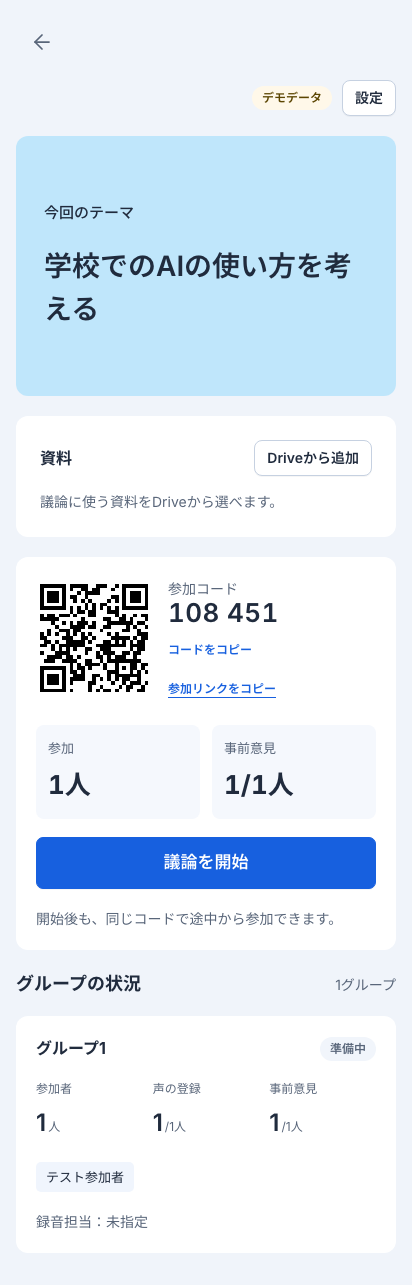
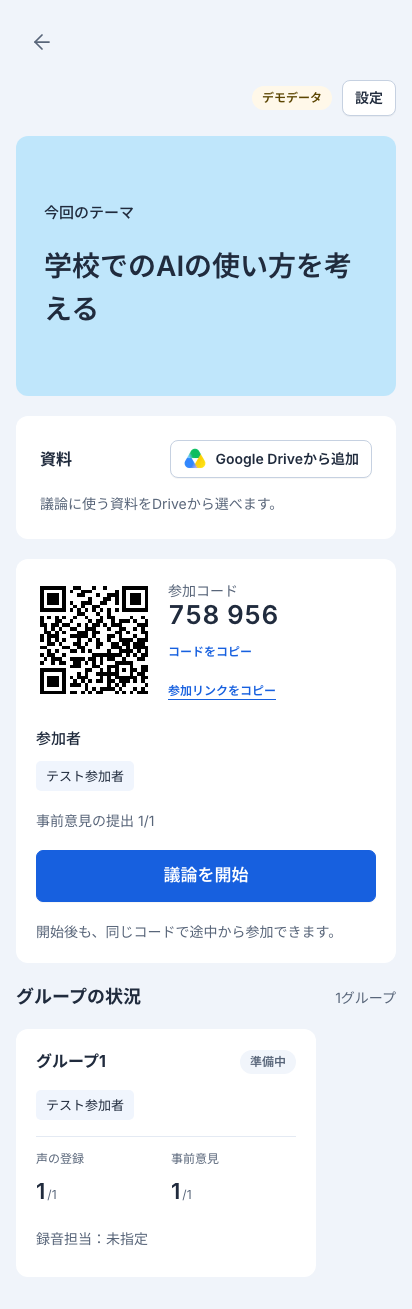
feat(web): グループ別ダッシュボードと終了確認を追加

diff --git a/web/src/components/host/SessionGroups.tsx b/web/src/components/host/SessionGroups.tsx
@@ -1,30 +1,56 @@
 "use client";
+import { useEffect, useRef, useState } from "react";
+import { SpeakingRates, type SpeakingState } from "@/components/Speaking";
+import { useRoomFeed } from "@/lib/room-stream";
 import { useGroups, type Member, type Room } from "@/lib/room";
+import { SpeechBars } from "./SessionCharts";
 
-export function SessionGroups({ roomId, room, members }: { roomId: string; room: Room; members: Member[] }) {
+export function SessionGroups({ roomId, room, members, dashboard = false }: { roomId: string; room: Room; members: Member[]; dashboard?: boolean }) {
   const configs = useGroups(roomId);
+  const speaking = (useRoomFeed(roomId).collections[`sessions/${roomId}/speaking`] ?? []) as unknown as SpeakingState[];
+  const [selected, setSelected] = useState<number>();
+  const detail = useRef<HTMLDialogElement>(null);
+  useEffect(() => { if (selected != null) detail.current?.showModal(); }, [selected]);
   const labels = { opinions: "準備中", discussing: "議論中", consensus: "結論を入力中", done: "終了" };
+  function groupData(group: number) {
+    const config = configs.find(c => c.number === group), state = room.groupState?.[String(group)];
+    const people = members.filter(m => m.group === group).flatMap(m => m.attendees?.length ? m.attendees.map(p => ({ ...p, id: `${m.id}/${p.id}` })) : [{ id: m.id, displayName: m.displayName || "表示名の入力待ち", voiceRegistered: m.ready === true }]);
+    return { config, state, people, name: config?.name || `グループ${group}`, voice: speaking.find(s => s.group === group),
+      label: room.endedAt || room.phase === "closed" ? "終了" : room.phase === "collecting" ? "準備中" : labels[state?.status ?? "discussing"] };
+  }
+  const current = selected != null ? groupData(selected) : undefined;
+  const names = (people: { id: string; displayName: string }[]) => <div className="session-group-card__people" aria-label="参加者名">{people.length ? people.map(p => <span key={p.id}>{p.displayName}</span>) : <p className="t-note">参加を待っています</p>}</div>;
   return <section className="session-groups" aria-labelledby="session-groups-title">
-    <div className="heading-row"><h2 id="session-groups-title" className="t-md">グループの状況</h2><span className="t-note">{room.groups ?? 1}グループ</span></div>
+    <div className="heading-row"><div><h2 id="session-groups-title" className="t-md">グループの状況</h2>{dashboard && <p className="t-note">カードを押すと詳細を表示</p>}</div><span className="t-note">{room.groups ?? 1}グループ</span></div>
     <div className="session-group-grid">
       {Array.from({ length: room.groups ?? 1 }, (_, i) => i + 1).map(group => {
-        const config = configs.find(c => c.number === group), state = room.groupState?.[String(group)];
-        const people = members.filter(m => m.group === group).flatMap(m => m.attendees?.length ? m.attendees : [{ id: m.id, displayName: m.displayName || "表示名の入力待ち", voiceRegistered: m.ready === true }]);
-        const registered = people.filter(p => p.voiceRegistered).length;
-        const label = room.endedAt || room.phase === "closed" ? "終了" : room.phase === "collecting" ? "準備中" : labels[state?.status ?? "discussing"];
-        return <article className="session-group-card" key={group} aria-label={config?.name || `グループ${group}`}>
-          <div className="heading-row"><h3 className="t-sm">{config?.name || `グループ${group}`}</h3><span className="pill">{label}</span></div>
-          <dl className="session-group-card__stats">
-            <div><dt>参加者</dt><dd>{people.length}<small>人</small></dd></div>
-            <div><dt>声の登録</dt><dd>{registered}<small>/{people.length}人</small></dd></div>
-            <div><dt>{room.endedAt ? "結論の提出" : "事前意見"}</dt><dd>{room.endedAt ? state?.submitted ?? 0 : state?.opinions ?? 0}<small>/{state?.total ?? members.filter(m => m.group === group).length}人</small></dd></div>
-          </dl>
-          <div className="session-group-card__people">{people.length ? people.map(p => <span key={p.id}>{p.displayName}</span>) : <p className="t-note">参加を待っています</p>}</div>
-          <p className="t-note">{room.recording === false ? "録音なし" : `録音担当：${config?.recorderName ? `${config.recorderName}さん` : "未指定"}`}</p>
+        const { config, state, people, name, label, voice } = groupData(group);
+        const content = <>
+          <div className="heading-row"><h3 className="t-sm">{name}</h3><span className="pill">{label}</span></div>
+          {names(people)}
+          {dashboard ? room.recording === false && !voice ? <p className="t-note">共有メモで議論を記録しています。</p> : <SpeechBars state={voice} names={people.map(p => p.displayName)} /> : <dl className="session-group-card__stats">
+            <div><dt>声の登録</dt><dd>{people.filter(p => p.voiceRegistered).length}<small>/{people.length}</small></dd></div>
+            <div><dt>事前意見</dt><dd>{state?.opinions ?? 0}<small>/{state?.total ?? members.filter(m => m.group === group).length}</small></dd></div>
+          </dl>}
+          <p className="t-note session-group-card__recorder">{room.recording === false ? "録音なし" : `録音担当：${config?.recorderName ? `${config.recorderName}さん` : "未指定"}`}</p>
           {state?.recording?.status && <p className="t-note">録音の分析：{{ analyzing: "分析中", done: "完了", failed: "再送が必要" }[state.recording.status]}</p>}
+          {dashboard && <span className="session-group-card__more">詳細を見る</span>}
+        </>;
+        return <article className="session-group-card" key={group} aria-label={name} data-dashboard={dashboard || undefined}>
+          {dashboard ? <button className="session-group-card__open" aria-label={`${name}の詳細`} aria-haspopup="dialog" onClick={() => setSelected(group)}>{content}</button> : content}
         </article>;
       })}
     </div>
-    {members.some(m => !m.group) && <p className="t-note">所属待ち：{members.filter(m => !m.group).length}端末</p>}
+    {members.some(m => !m.group) && <div className="session-group-unassigned"><p className="t-note">グループの割り当て待ち</p>{names(members.filter(m => !m.group).flatMap(m => m.attendees?.length ? m.attendees.map(p => ({ ...p, id: `${m.id}/${p.id}` })) : [{ id: m.id, displayName: m.displayName || "表示名の入力待ち" }]))}</div>}
+    <dialog ref={detail} className="dialog session-group-sheet" aria-labelledby="group-detail-title" onClose={() => setSelected(undefined)} onClick={e => { if (e.target === detail.current) detail.current?.close(); }}>
+      <div className="session-group-sheet__handle" aria-hidden="true" />
+      <div className="dialog__head"><div><p className="t-note">グループの詳細</p><h2 id="group-detail-title" className="t-md">{current?.name}</h2></div><button className="btn btn--small" onClick={() => detail.current?.close()}>閉じる</button></div>
+      {current && <div className="session-group-sheet__body">
+        <section><h3 className="t-label">参加者</h3>{names(current.people)}</section>
+        <div className="session-group-sheet__status"><span className="pill">{current.label}</span><p className="t-note">{room.recording === false ? "録音なし" : `録音担当：${current.config?.recorderName || "未指定"}`}</p></div>
+        {current.voice ? <SpeakingRates state={current.voice} /> : <div className="session-group-sheet__empty"><h3 className="t-sm">{room.recording === false ? "録音なし" : "発言の集計待ち"}</h3><p className="t-note">{room.recording === false ? "このセッションでは、発言時間を集計しません。" : "録音が始まると、参加者ごとの発言時間と推移が表示されます。"}</p></div>}
+        <p className="t-note">事前意見の提出 {current.state?.opinions ?? 0}/{current.state?.total ?? members.filter(m => m.group === selected).length}</p>
+      </div>}
+    </dialog>
   </section>;
 }

diff --git a/web/src/app/rooms/[roomId]/session.css b/web/src/app/rooms/[roomId]/session.css
@@ -124,3 +124,85 @@
 .session-workspace .session-join .lobby__digits { font-size: clamp(26px, 2.4vw, 34px); font-weight: 600; letter-spacing: .015em; }
 .live-side .session-invite__access { grid-template-columns: 88px minmax(0, 1fr); }
 .live-side .session-join { margin-block: 12px; }
+
+/* グループ数でカード幅を伸ばさず、参加者名を主役にする。 */
+.session-group-grid { display: flex; flex-wrap: wrap; align-items: stretch; gap: 18px; }
+.session-group-card { width: 300px; max-width: 100%; min-height: 248px; flex: 0 0 auto; gap: 16px; }
+.session-group-card__stats { grid-template-columns: repeat(2, minmax(0, 1fr)); padding-top: 12px; border-top: 1px solid var(--line); }
+.session-group-card__stats dd { font-size: 22px; }
+.session-group-card__people { align-content: start; gap: 7px; min-width: 0; max-height: 116px; overflow-y: auto; }
+.session-group-card__people > span { max-width: 100%; overflow-wrap: anywhere; }
+.session-group-card__recorder { margin-top: auto; }
+.session-group-unassigned, .session-invite__participants { display: grid; gap: 10px; }
+.session-drive-button { gap: 9px; }
+.session-drive-button img { flex: 0 0 auto; object-fit: contain; }
+.session-workspace[data-active] .session-page { padding-top: 32px; }
+
+/* 議論中は全体のグラフからグループへ視線を流す。 */
+.session-workspace .dashboard-session { display: flex; align-items: center; justify-content: space-between; gap: 24px; padding: 24px 28px; background: #fff; border-radius: 14px; }
+.dashboard-session__heading { display: flex; align-items: center; flex-wrap: wrap; gap: 28px; }
+.dashboard-live-label { display: flex; align-items: center; gap: 7px; margin-bottom: 5px; font-size: 11px; font-weight: 700; letter-spacing: .12em; color: #19775d; }
+.dashboard-live-label > span { width: 7px; height: 7px; border-radius: 50%; background: #1b9876; }
+.dashboard-session__clock { padding-left: 28px; border-left: 1px solid var(--line); }
+.dashboard-session__clock > p { font-size: 36px; line-height: 1.2; font-weight: 650; font-variant-numeric: tabular-nums; letter-spacing: .02em; }
+.dashboard-metrics { display: grid; grid-template-columns: repeat(3, minmax(0, 1fr)); gap: 18px; }
+.dashboard-metric { display: flex; align-items: center; min-width: 0; padding: 24px; background: #fff; border-radius: 14px; }
+.dashboard-ring-stat { display: flex; align-items: center; gap: 18px; min-width: 0; }
+.dashboard-ring-stat h3 { font-size: 14px; font-weight: 600; margin-bottom: 5px; }
+.dashboard-ring { flex: 0 0 auto; position: relative; display: grid; place-items: center; width: 92px; height: 92px; border-radius: 50%; background: conic-gradient(#1760df calc(var(--percent) * 1%), #edf2fa 0); }
+.dashboard-ring::before { content: ""; position: absolute; inset: 9px; background: #fff; border-radius: 50%; }
+.dashboard-ring strong { position: relative; font-size: 22px; font-weight: 650; }
+.dashboard-metric--pending { background: #fff2d7; flex-direction: column; align-items: flex-start; justify-content: center; gap: 8px; }
+.dashboard-metric--pending strong { font-size: 40px; line-height: 1.1; font-weight: 650; }
+.dashboard-metric--pending strong small { font-size: 14px; margin-left: 8px; }
+.session-group-card[data-dashboard] { padding: 0; }
+.session-group-card__open { display: flex; flex-direction: column; gap: 16px; width: 100%; height: 100%; min-height: 350px; padding: 22px; border: 1px solid transparent; border-radius: inherit; background: transparent; color: inherit; font: inherit; text-align: left; cursor: pointer; transition: border-color .15s, box-shadow .15s; }
+.session-group-card__open > .heading-row, .session-group-card__open > .session-group-card__people, .session-group-card__open > .dashboard-speech { width: 100%; }
+.session-group-card__open:hover { border-color: #9db9e9; box-shadow: 0 6px 20px #17478612; }
+.session-group-card__open:focus-visible { outline: 3px solid #1760df; outline-offset: 3px; }
+.session-group-card__more { align-self: flex-end; font-size: 13px; font-weight: 600; color: #1760df; }
+.dashboard-speech { display: grid; gap: 10px; }
+.dashboard-speech__rows { display: grid; gap: 10px; max-height: 148px; overflow-y: auto; }
+.dashboard-speech__row { display: grid; grid-template-columns: minmax(64px, 1fr) minmax(48px, 1.2fr) 36px; align-items: center; gap: 8px; font-size: 12px; }
+.dashboard-speech__name { overflow-wrap: anywhere; }
+.dashboard-speech__row > span:last-child { text-align: right; font-variant-numeric: tabular-nums; }
+.dashboard-speech__track { height: 7px; overflow: hidden; background: #edf2fa; border-radius: 8px; }
+.dashboard-speech__track > span { display: block; height: 100%; border-radius: inherit; transition: width .3s; }
+.session-workspace .session-finish-button { min-width: 210px; min-height: 60px; padding: 16px 26px; background: #cc3541; border-color: #cc3541; color: #fff; font-size: 17px; font-weight: 650; border-radius: 10px; box-shadow: 0 4px 12px #cc354122; }
+.session-workspace .session-finish-button:hover:not(:disabled) { background: #ad2631; border-color: #ad2631; }
+.session-workspace .session-finish-button:disabled { opacity: .6; }
+.session-finish-dialog__body { display: grid; gap: 18px; padding: 32px; }
+.session-finish-dialog__label { color: #b02e39; font-size: 13px; font-weight: 600; }
+.session-finish-dialog__actions { display: flex; flex-wrap: wrap; gap: 12px; margin-top: 8px; }
+.session-finish-dialog__actions > .btn { flex: 1; }
+.dialog.session-group-sheet { position: fixed; inset: auto 0 0; width: min(960px, 100%); max-width: 100%; max-height: 88dvh; margin: 0 auto; padding-bottom: env(safe-area-inset-bottom); border-radius: 22px 22px 0 0; overscroll-behavior: contain; }
+.session-group-sheet[open] { animation: session-sheet-in .24s ease-out; }
+.session-group-sheet__handle { width: 44px; height: 5px; margin: 12px auto 0; border-radius: 6px; background: #d2dbe8; }
+.session-group-sheet__body { display: grid; gap: 22px; padding: 24px; }
+.session-group-sheet__body > section:first-child { display: grid; gap: 12px; }
+.session-group-sheet__status { display: flex; align-items: center; flex-wrap: wrap; gap: 18px; }
+.session-group-sheet__empty { padding: 28px; border-radius: 12px; background: #f1f5fb; display: grid; gap: 10px; }
+@keyframes session-sheet-in { from { transform: translateY(100%); opacity: .4; } to { transform: translateY(0); opacity: 1; } }
+@media (max-width: 1000px) {
+  .dashboard-metrics { grid-template-columns: repeat(2, minmax(0, 1fr)); }
+  .dashboard-metric--pending { grid-column: 1 / -1; flex-direction: row; justify-content: space-between; align-items: center; }
+}
+@media (max-width: 600px) {
+  .session-workspace[data-active] .session-page { padding-top: 24px; }
+  .session-workspace .dashboard-session { padding: 20px; flex-direction: column; align-items: stretch; gap: 20px; }
+  .dashboard-session__heading { justify-content: space-between; gap: 16px; }
+  .dashboard-session__clock { padding-left: 16px; }
+  .dashboard-session__clock > p { font-size: 30px; }
+  .dashboard-finish > .session-finish-button { width: 100%; }
+  .dashboard-metrics { grid-template-columns: minmax(0, 1fr); gap: 12px; }
+  .dashboard-metric { padding: 20px; }
+  .dashboard-ring { width: 80px; height: 80px; }
+  .session-group-sheet__body { padding: 20px 16px; }
+  .session-finish-dialog__body { padding: 24px; }
+  .session-finish-dialog__actions { flex-direction: column-reverse; }
+  .session-finish-dialog__actions > .btn { width: 100%; }
+}
+@media (prefers-reduced-motion: reduce) {
+  .session-group-sheet[open] { animation: none; }
+  .session-group-card__open, .dashboard-speech__track > span { transition: none; }
+}

diff --git a/web/src/components/host/LiveBoard.tsx b/web/src/components/host/LiveBoard.tsx
@@ -1,10 +1,10 @@
 "use client";
-import { useEffect, useState } from "react";
-import { SessionStage } from "@/components/SessionStage";
+import { useEffect, useRef, useState } from "react";
 import { SessionGroups } from "./SessionGroups";
 import { SessionMaterials } from "@/components/SessionMaterials";
 import { SessionJoinCode } from "@/components/SessionJoinCode";
-import { HostSpeaking, type SpeakingState } from "@/components/Speaking";
+import type { SpeakingState } from "@/components/Speaking";
+import { ProgressRing } from "./SessionCharts";
 import { SourceTag } from "@/components/ui";
 import { ApiError, callApi } from "@/lib/api";
 import { millis, useDoc, useMessages, type Coverage, type Insight, type Member, type Room } from "@/lib/room";
@@ -17,7 +17,7 @@ const AUTO_GAP_MS = 60_000;
 
 /**
  * 議論中の教員の画面（教室に投影する黒板）。司会者が「次に何をすべきか」を一目で決められるように、
- * 上の帯に経過時間と3つの数字（意見の検討率・未検討の論点・発言した人）、
+ * 経過時間と終了操作、円グラフとグループカードで全体を把握し、
  * 主役に AI が見つけた「まだ話されていない論点」の付箋（全員に表示する／見送る）を置く（Docs「アプリの構想」§3）。
  * 事前意見の本文は出さない（提案は Gemini が言い換えた論点だけ）。
  */
@@ -68,26 +68,18 @@ export function LiveBoard({ roomId, room, members, insights }: { roomId: string;
 
   return (
     <div className="teacher__body live">
-      <SessionStage stage="live" title="セッション中">参加状況を確認しながら、必要な問いかけを共有できます。</SessionStage>
-      <section className="tally" aria-label="議論の進み具合">
-        <p className="tally__time" role="timer" aria-label="経過時間">{String(Math.floor(elapsed / 60)).padStart(2, "0")}:{String(elapsed % 60).padStart(2, "0")}</p>
-        <dl className="tally__list">
-          <div>
-            <dt>意見の検討率</dt>
-            <dd className="tally__num">{coverage?.reflectionRate == null ? "—" : `${Math.round(coverage.reflectionRate * 100)}%`}</dd>
-            {coverage && <dd className="tally__sub">話された論点 {coverage.discussed}/{coverage.total}</dd>}
-          </div>
-          <div data-alert={pending.length > 0 || undefined}>
-            <dt>未検討の論点</dt>
-            <dd className="tally__num">{pending.length}</dd>
-          </div>
-          <div>
-            <dt>{spoke.label}</dt>
-            <dd className="tally__num">{spoke.count}<small>/{spoke.total}人</small></dd>
-          </div>
-        </dl>
+      <section className="dashboard-session" aria-label="議論の進み具合">
+        <div className="dashboard-session__heading"><div><p className="dashboard-live-label"><span aria-hidden="true" />LIVE</p><h2 className="t-md">セッション中</h2></div>
+          <div className="dashboard-session__clock"><span className="t-note">経過時間</span><p role="timer" aria-label="経過時間">{String(Math.floor(elapsed / 60)).padStart(2, "0")}:{String(elapsed % 60).padStart(2, "0")}</p></div>
+        </div>
         <FinishButton roomId={roomId} />
       </section>
+      <section className="dashboard-metrics" aria-label="ダッシュボード">
+        <article className="dashboard-metric"><ProgressRing label="意見の検討率" value={coverage?.reflectionRate ?? null} note={coverage ? `話された論点 ${coverage.discussed}/${coverage.total}` : "分析後に表示"} /></article>
+        <article className="dashboard-metric"><ProgressRing label={spoke.label} value={spoke.total ? spoke.count / spoke.total : null} note={`${spoke.count}/${spoke.total}人${voice.length ? " · 発言時間から集計" : " · 共有メモから集計"}`} /></article>
+        <article className="dashboard-metric dashboard-metric--pending"><div><p className="t-note">未検討の論点</p><strong>{pending.length}<small>件</small></strong></div><p className="t-note">{pending.length ? "下の提案を確認" : "新しい論点を分析できます"}</p></article>
+      </section>
+      <SessionGroups roomId={roomId} room={room} members={members} dashboard />
 
       <div className="live-grid">
         <section className="next" aria-labelledby="next-title">
@@ -147,10 +139,8 @@ export function LiveBoard({ roomId, room, members, insights }: { roomId: string;
             </section>
           )}
           {room.joinCode && <SessionJoinCode code={room.joinCode} />}
-          <HostSpeaking roomId={roomId} card />
         </aside>
       </div>
-      <SessionGroups roomId={roomId} room={room} members={members} />
       <SessionMaterials roomId={roomId} editable />
     </div>
   );
@@ -195,17 +185,21 @@ function useScan(roomId: string, room: Room, messageTimes: number[], now: number
 }
 
 function FinishButton({ roomId }: { roomId: string }) {
-  const [confirm, setConfirm] = useState(false), [busy, setBusy] = useState(false), [error, setError] = useState("");
+  const confirm = useRef<HTMLDialogElement>(null);
+  const cancel = useRef<HTMLButtonElement>(null);
+  const [busy, setBusy] = useState(false), [error, setError] = useState("");
   async function finish() {
     setBusy(true); setError("");
-    try { await callApi(`/rooms/${roomId}/finish`); }
+    try { await callApi(`/rooms/${roomId}/finish`); confirm.current?.close(); }
     catch (e) { setError((e as Error).message); setBusy(false); }
   }
-  return (
-    <div className="tally__end">
-      {!confirm ? <button className="btn" onClick={() => setConfirm(true)}>議論を終える</button>
-        : <><button className="btn btn--blue" disabled={busy} onClick={() => void finish()}>{busy ? "終えています…" : "終えて結果を見る"}</button><button className="btn" disabled={busy} onClick={() => setConfirm(false)}>まだ続ける</button></>}
-      {error && <p className="notice notice--error" role="alert">{error}</p>}
-    </div>
-  );
+  return <div className="dashboard-finish">
+    <button className="btn session-finish-button" onClick={() => { setError(""); confirm.current?.showModal(); cancel.current?.focus(); }}>議論を終える</button>
+    <dialog ref={confirm} className="dialog session-finish-dialog" aria-labelledby="finish-dialog-title" aria-describedby="finish-dialog-description" onCancel={e => { if (busy) e.preventDefault(); }}>
+      <div className="session-finish-dialog__body"><p className="session-finish-dialog__label">セッションの終了</p><h2 id="finish-dialog-title" className="t-md">セッションを終了しますか？</h2><p id="finish-dialog-description" className="t-note">全グループの議論を終了し、参加者は結論の入力へ進みます。</p>
+        {error && <p className="notice notice--error" role="alert">{error}</p>}
+        <div className="session-finish-dialog__actions"><button ref={cancel} className="btn" disabled={busy} onClick={() => confirm.current?.close()}>まだ続ける</button><button className="btn session-finish-button" disabled={busy} onClick={() => void finish()}>{busy ? "終えています…" : "終えて結果を見る"}</button></div>
+      </div>
+    </dialog>
+  </div>;
 }

diff --git a/web/src/components/host/SessionCharts.tsx b/web/src/components/host/SessionCharts.tsx
@@ -1,0 +1,31 @@
+import type { CSSProperties } from "react";
+import type { SpeakingState } from "@/components/Speaking";
+
+const SPEAKING_COLORS = ["#2a78d6", "#eb6834", "#1baf7a", "#eda100", "#e87ba4", "#008300", "#6250d6", "#e34948"];
+
+/** 未取得を0%と混同せず、APIから届いた割合だけを描く。 */
+export function ProgressRing({ label, value, note }: { label: string; value: number | null; note?: string }) {
+  const percent = value == null ? null : Math.round(Math.max(0, Math.min(1, value)) * 100);
+  return <div className="dashboard-ring-stat">
+    <div className="dashboard-ring" style={{ "--percent": percent ?? 0 } as CSSProperties} role="img" aria-label={`${label}：${percent == null ? "集計待ち" : `${percent}%`}`}>
+      <strong>{percent == null ? "—" : `${percent}%`}</strong>
+    </div>
+    <div><h3>{label}</h3><p className="t-note">{note || (percent == null ? "集計待ち" : "")}</p></div>
+  </div>;
+}
+
+export function SpeechBars({ state, names = [] }: { state?: SpeakingState; names?: string[] }) {
+  const total = state ? Object.values(state.talkMs).reduce((a, b) => a + b, 0) + state.unknownMs : 0;
+  const people = state?.members.length ? state.members : names.map((label, i) => ({ uid: String(i), label }));
+  return <div className="dashboard-speech" aria-label="発言の割合（推定）">
+    <p className="t-note">発言の割合（推定）{state?.source === "mock" && " · デモデータ"}</p>
+    <div className="dashboard-speech__rows">{people.map((p, i) => {
+      const value = total ? Math.round((state?.talkMs[p.uid] ?? 0) / total * 100) : null;
+      return <div className="dashboard-speech__row" key={p.uid}>
+        <span className="dashboard-speech__name">{p.label}</span><span className="dashboard-speech__track" aria-hidden="true"><span style={{ width: `${value ?? 0}%`, background: SPEAKING_COLORS[i % SPEAKING_COLORS.length] }} /></span><span>{value == null ? "—" : `${value}%`}</span>
+      </div>;
+    })}</div>
+    {!!state?.unknownMs && <p className="t-note">判別不能 {Math.round(state.unknownMs / total * 100)}%</p>}
+    {!total && !!people.length && <p className="t-note">録音開始後にグラフを表示</p>}
+  </div>;
+}

diff --git a/web/src/components/host/TeacherRoom.tsx b/web/src/components/host/TeacherRoom.tsx
@@ -42,7 +42,7 @@ export function TeacherRoom({ roomId, room }: { roomId: string; room: Room }) {
 
   return (
     <AppShell wide back="/teacher"
-      hero={!ended && room.phase === "collecting"}
+      hero={!ended && room.phase === "collecting"} hideBack={!ended && room.phase !== "collecting"}
       eyebrow={<>{room.className && <span>{room.className}</span>}<span className={`pill pill--${state === "議論中" ? "live" : state === "終了" ? "done" : "ready"}`}>{state}</span></>}
       title={room.theme || room.title}
       actions={<>
@@ -96,10 +96,10 @@ function Lobby({ roomId, room, seats, opinions, members }: { roomId: string; roo
       </div>
       <section className="session-invite" aria-label="集まり具合">
         <SessionJoinCode code={code} />
-        <dl className="stats">
-          <div><dt>参加</dt><dd>{seats}人</dd></div>
-          <div><dt>事前意見</dt><dd>{opinions}/{seats}人</dd></div>
-        </dl>
+        <div className="session-invite__participants"><h2 className="t-label">参加者</h2>
+          <div className="session-group-card__people">{members.length ? members.flatMap(m => m.attendees?.length ? m.attendees.map(a => <span key={`${m.id}/${a.id}`}>{a.displayName}</span>) : [<span key={m.id}>{m.displayName || "表示名の入力待ち"}</span>]) : <p className="t-note">参加を待っています</p>}</div>
+        </div>
+        <p className="t-note">事前意見の提出 {opinions}/{seats}</p>
         {notReady && <div className="notice notice--warn stack" role="alert"><p>{notReady}。外した参加者は、このセッションに参加できなくなります。</p>
           <button className="btn btn--blue" disabled={busy} onClick={() => void start(true)}>未準備の参加者を外して開始</button></div>}
         {message && <p className="notice notice--error" role="alert">{message}</p>}

diff --git a/web/src/components/SessionMaterials.tsx b/web/src/components/SessionMaterials.tsx
@@ -1,4 +1,5 @@
 "use client";
+import Image from "next/image";
 import { useEffect, useRef, useState } from "react";
 import { authorizeDrive, materialRequest, pickDriveFile, SCOPES, type MaterialFile } from "@/lib/drive";
 import { useRoomFeed } from "@/lib/room-stream";
@@ -36,7 +37,7 @@ export function SessionMaterials({ roomId, editable = false, ended = false }: { 
   }
   if (!editable && !files.length) return null;
   return <section className="session-materials" aria-label="共有資料">
-    <div className="heading-row"><h2 className="t-sm">資料</h2>{editable && !ended && <button className="btn btn--small" disabled={busy || files.length >= 5} onClick={() => void choose()}>{busy ? "処理しています…" : "Driveから追加"}</button>}</div>
+    <div className="heading-row"><h2 className="t-sm">資料</h2>{editable && !ended && <button className="btn btn--small session-drive-button" title="Google Driveのファイル一覧から資料を追加" disabled={busy || files.length >= 5} onClick={() => void choose()}><Image src="/brand/google-drive.png" alt="" width={24} height={24} />{busy ? "処理しています…" : "Google Driveから追加"}</button>}</div>
     {files.length ? <ul>{files.map(file => <li key={file.id}><button className="text-btn" disabled={busy} onClick={() => void open(file)}>{file.name}</button>{editable && <button className="text-btn" disabled={busy} aria-label={`${file.name}の共有を解除`} onClick={() => void remove(file)}>解除</button>}</li>)}</ul> : <p className="t-note">議論に使う資料をDriveから選べます。</p>}
     {error && !pending && <p className="notice notice--error" role="alert">{error}</p>}
     <dialog ref={confirm} className="dialog" aria-labelledby="material-confirm-title" onCancel={e => { if (busy) e.preventDefault(); else setPending(undefined); }}>

diff --git a/web/src/components/SessionShell.tsx b/web/src/components/SessionShell.tsx
@@ -6,11 +6,11 @@ import { AppShell } from "@/components/shell";
 import { useGeminiSource } from "@/components/ui";
 
 /** セッション専用の枠。ログイン・ホームで使う共通AppShellの変更と独立させる。 */
-export function SessionShell(props: ComponentProps<typeof AppShell> & { back: string; hero?: boolean }) {
+export function SessionShell(props: ComponentProps<typeof AppShell> & { back: string; hero?: boolean; hideBack?: boolean }) {
   const demo = useGeminiSource() === "mock";
   const guard = (e: MouseEvent) => { if (props.onLeave && !props.onLeave()) e.preventDefault(); };
-  return <div className="session-workspace">
-    <Link href={props.back} className="session-back" aria-label="ホーム" onClick={guard}><ArrowLeft size={24} strokeWidth={1.75} aria-hidden="true" /></Link>
+  return <div className="session-workspace" data-active={props.hideBack || undefined}>
+    {!props.hideBack && <Link href={props.back} className="session-back" aria-label="ホーム" onClick={guard}><ArrowLeft size={24} strokeWidth={1.75} aria-hidden="true" /></Link>}
     <main className="session-page" data-wide={props.wide || undefined}>
       {!props.hero && <h1 className="session-page__title">{props.title}</h1>}
       {(props.actions || demo) && <div className="session-actions">{demo && <span className="tag tag--yellow">デモデータ</span>}{props.actions}</div>}

diff --git a/web/e2e/guided-flow.spec.ts b/web/e2e/guided-flow.spec.ts
@@ -22,8 +22,9 @@ test("GuestはQR・表示名・初回音声登録・待機・Host開始・許可
     expect((await host.post(`/api/rooms/${r.roomId}/phase`, { headers, data: { to: "discussing" } })).status()).toBe(200);
     await expect(page.getByRole("heading", { name: "グループで話し合いましょう" })).toBeVisible();
     await expect(page.getByText("テーマ：秘密のテーマ")).toBeVisible();
-    // 開始後にホームへ戻っても、同じコードで議論の画面に戻れる
-    await page.getByRole("link", { name: "ホーム", exact: true }).click();
+    // 議論中は戻る操作を出さない。別URLを開いた後も、同じコードで議論を復元できる。
+    await expect(page.getByRole("link", { name: "ホーム", exact: true })).toHaveCount(0);
+    await page.goto("/home");
     await page.goto(`/join?code=${r.joinCode}`);
     await expect(page).toHaveURL(/\/rooms\//);
     await expect(page.getByRole("heading", { name: "グループで話し合いましょう" })).toBeVisible();

diff --git a/web/src/components/participant/GuidedGuest.tsx b/web/src/components/participant/GuidedGuest.tsx
@@ -127,7 +127,7 @@ export function GuidedGuest({ roomId, room, uid, group, recording, canRecord, re
   const uploadState = recording.upload.state;
   const who = [own?.displayName, group && (room.groups ?? 1) > 1 ? `グループ${group}` : ""].filter(Boolean).join("・");
   return <AppShell eyebrow={who || undefined} title={room.participantView?.theme === false ? room.title : room.theme || room.title}
-    steps={<Stepper steps={STEPS} current={step} />} back="/home" onLeave={leave}>
+    steps={<Stepper steps={STEPS} current={step} />} back="/home" onLeave={leave} hideBack={!ended && room.phase !== "collecting"}>
     <div className="flow">
       {error && <p className="notice notice--error" role="alert">{error}</p>}
       <SessionMaterials roomId={roomId} />
